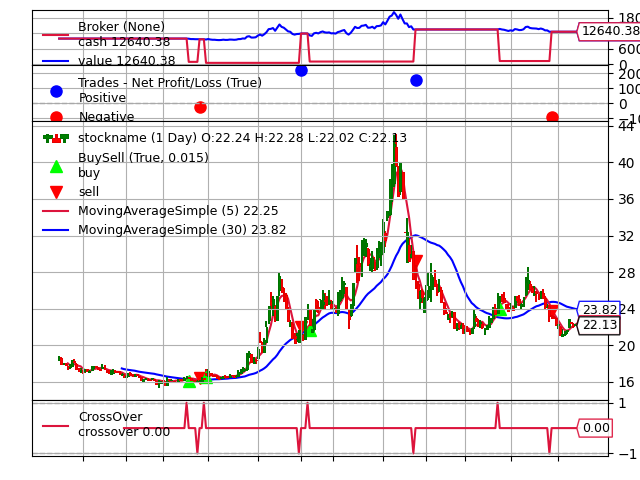
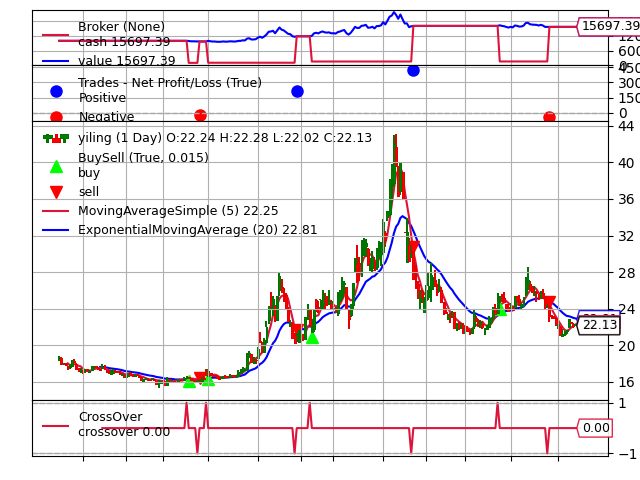
modified

diff --git a/bt.py b/bt.py
@@ -3,26 +3,36 @@ import pandas as pd
 import pdb
 import datetime
 from loguru import logger
+from typing import List, Type
 
 # PARAMS = dict(period5=5, period30=30)# TODO: 回测参数
 
 class DemoStrategy(bt.Strategy):
     
     def __init__(self) -> None:
+        '''
+        利用indicator绘制一些指标曲线
+        '''
         # 短均线和长均线交叉
-        self.sma5  = bt.indicators.sma.MovingAverageSimple(
+        self.sma5  = bt.indicators.MovingAverageSimple(
             self.data0.close, period=5
         )
-        self.sma30 = bt.indicators.sma.MovingAverageSimple(
-            self.data0.close, period=30
+        # self.sma30 = bt.indicators.MovingAverageSimple(
+        #     self.data0.close, period=30
+        # )
+        # 事实证明 EMA效果更好
+        self.ema20 = bt.indicators.ExponentialMovingAverage(
+            self.data0.close, period=20
         )
-        self.cross = bt.indicators.crossover.CrossOver(
-            self.sma5, self.sma30
+        self.cross = bt.indicators.CrossOver(
+            self.sma5, self.ema20
         )
 
     
     def next(self):
-        # 编写交易策略
+        '''
+        实际的交易函数, 要等所有均线出现后才开始调用next, 否则是prenext
+        '''
         if not self.position: # 是否有持仓
             if self.cross > 0: # 1.0 if the 1st data crosses the 2nd data upwards 这里代表着5日均线crossover30日均线向上
                 self.buy()
@@ -33,19 +43,25 @@ class DemoStrategy(bt.Strategy):
     def log(self):
         pass
 
-    def notify_order(self, order):
+    def notify_order(self, order: bt.Order):
+        '''
+        订单状态变化的事件触发函数
+        '''
+        # Submitted -> Accepted -> Completed 这里应该是模拟了券商
+        # logger.debug(f"notify_order {bt.OrderBase.Status[order.status]}")
         pass
 
-    def notify_trade(self, trade): # TODO:
-        logger.debug(type(trade))
+    def notify_trade(self, trade: bt.Trade):
+        '''
+        交易状态变化的事件触发函数
+        '''
+        # pnl (Profit and Loss)
+        # pnlcomm (Profit and Loss including Commissions)
         if trade.isclosed:
             logger.info(
-                "Trade Profit, Cross {}, next {}".format(
-                    trade.pnl, trade.pnlcomm
-                )
+                "Trade Profit : {:.2f}".format(trade.pnl)
             )
 
-    
 
 df = pd.read_csv("assets/yiling.csv")
 # not use the "Adj Close" colomn
@@ -56,30 +72,39 @@ df.loc[:, 'Date'] = pd.to_datetime(df['Date'])
 cerebro = bt.Cerebro()
 data = bt.feeds.PandasData(
     dataname=df[selected_colomns],
-    datetime='Date',  # TODO: 指定日期列的名称
+    datetime='Date',  # 必须指定日期列的名称
     open='Open',
     high='High',
     low='Low',
     close='Close',
     volume='Volume',
     timeframe=bt.TimeFrame.Days,
-    fromdate=datetime.datetime(2021, 8, 16), # TODO: 去掉如何？
-    todate=datetime.datetime(2022, 8, 15)
+    # fromdate=datetime.datetime(2021, 8, 16), 
+    # todate=datetime.datetime(2022, 8, 15)
 )# 以日频加载数据
 
-cerebro.adddata(data, name="stockname")
+cerebro.adddata(data, name="yiling")
 cerebro.addstrategy(DemoStrategy)
-cerebro.addsizer(bt.sizers.PercentSizer, percents=90)# TODO:
+# Sizer: 它根据资产总价值的百分比来确定每次交易的大小 这里是每次交易90
+cerebro.addsizer(bt.sizers.PercentSizer, percents=90)
 
-cerebro.addanalyzer(bt.analyzers.SharpeRatio, _name="mysharp") # TODO:
-cerebro.addanalyzer(bt.analyzers.Returns, _name="myreturn") # TODO:
+cerebro.addanalyzer(bt.analyzers.SharpeRatio, _name="mysharp")
+cerebro.addanalyzer(bt.analyzers.Returns, _name="myreturn")
 
-result = cerebro.run()
-logger.info("夏普率: %f" % result[0].analyzers.mysharp.get_analysis()['sharperatio'])
-logger.info("总回报率: %f" % result[0].analyzers.myreturn.get_analysis()['rtot'])
+# print(cerebro.broker.getvalue()) # NOTE: 默认10000.0$ 
+
+result: List[bt.Strategy] = cerebro.run()
+# logger.debug(result[0].analyzers.myreturn)
+
+mysharp : bt.analyzers.SharpeRatio = result[0].analyzers.mysharp
+myreturn: bt.analyzers.Returns     = result[0].analyzers.myreturn
+
+# 夏普率的本质就是 收益率/波动率 波动率就是用标准差计算
+logger.info("夏普率: {}".format(mysharp.get_analysis()['sharperatio']))
+logger.info("总回报率: {:.2%}".format(myreturn.get_analysis()['rtot']))
 
 import matplotlib.pyplot as plt
-
+# 设置DISPLAY变量进行X11本地绘图转发
 cerebro.plot(style='candle', barup='green', bardown='red', iplot=False, volume=False, fmt_x_data='%Y-%m-%d %H:%M:%S')
 plt.savefig('backtrader_plot.png')
 

diff --git a/test.py b/test.py
@@ -1,8 +1,20 @@
-# class Test:
-#     a = dict(b=1,c=2)
-#     def __init__(self) -> None:
-#         print(self.a.b)
+import numpy as np
 
-# Test()
-a = dict(b=1,c=2)
-print(a.b)
+# 十个月的每月收益率数据
+monthly_returns = np.array([0.02, -0.01, 0.03, -0.02, 0.01, 0.02, -0.01, 0.03, -0.02, 0.01])
+
+# 年化无风险利率
+annual_rf_rate = 0.01
+
+# 计算年化收益率（Rp）
+annual_returns = np.prod(1 + monthly_returns) ** (12 / len(monthly_returns)) - 1
+
+# 计算年化标准差（σp）
+annual_std_dev = np.std(monthly_returns) * np.sqrt(12)
+
+# 计算夏普率
+sharpe_ratio = (annual_returns - annual_rf_rate) / annual_std_dev
+
+print("年化收益率 Rp:", annual_returns)
+print("年化标准差 σp:", annual_std_dev)
+print("夏普率 Sharpe Ratio:", sharpe_ratio)

diff --git a/README.md b/README.md
@@ -1,2 +1,5 @@
 rudimentary backtrader demo
 use SMA cross strategy
+
+# 对于vscode ssh linux 的plot转发
+要下载xmanager 然后`export DISPLAY=localhost:10.0` 就能本地打开了
